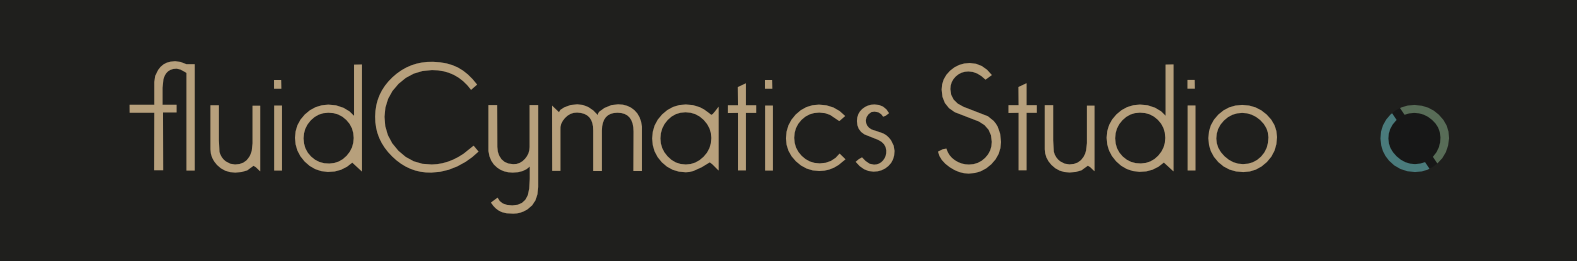
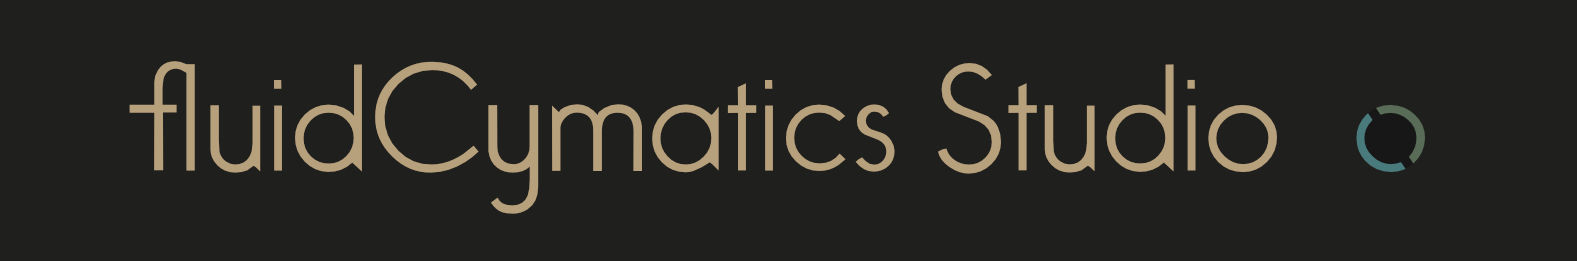
update assets

Changed region(s): [[0.8389, 0.3985, 0.9321, 0.6743]]

diff --git a/styles.css b/styles.css
@@ -6,21 +6,20 @@
 
 :root {
   --color-cahier: #B7A07C;      /* B7A07C - Cahier - Headers & Assets */
-  --color-accent-lo: #5F6B4E;   /* 5F6B4E - Moss - Accent Lo */
+  --color-accent-lo: #586C57;   /* 586C57 - Moss - Accent Lo */
   --color-accent-hi: #4A7B7C;   /* 4A7B7C - Teal - Accent Hi */
-  --color-canvas-bg: #171717;  /* 171717 - Black - Canvas Background */
-  --color-callout-bg: #1F1F1D; /* 1F1F1D - Brown - Callouts & HZ Lines */
+  --color-canvas-bg: #080808;  /* 080808 - Black - Canvas Background */
+  --color-callout-bg: #171717; /* 171717 - Brown - Callouts & HZ Lines */
   --color-text-white: #ACACAC;  /* ACACAC - White - Text */
   --color-link: #D9D9D9;        /* D9D9D9 - Link */
   --color-visited: #5A5A5A;     /* 5A5A5A - vLink */
-  --color-obsidian-div: #080808;/* 080808 - Obsidian Parent Div */
 
   --color-bright-white: #FFFFFF;
   --font-mono: "Inter", -apple-system, BlinkMacSystemFont, "Segoe UI", Roboto, sans-serif;
 
   --bg-charcoal: #121212;
   --cahier-tan: #B7A07C;
-  --moss-green: #5F6B4E;
+  --moss-green: #586C57;
   --cymatic-teal: #4A7B7C;
 
   --node-idle: var(--moss-green);
@@ -71,7 +70,7 @@ body {
   display: flex;
   align-items: center;
   padding: 16px 32px;
-  background: var(--color-callout-bg);
+  background: var(--color-canvas-bg);
   border-bottom: 1px solid #B7A07C;
   pointer-events: auto;
 }

diff --git a/index.html b/index.html
@@ -15,6 +15,15 @@
       }
     }
   </script>
+
+<!-- High-DPI PNG Icon -->
+<link rel="icon" type="image/png" sizes="96x96" href="/assets/ominode/ominode-96.png">
+
+<!-- Legacy ICO Fallback -->
+<link rel="icon" type="image/x-icon" href="/assets/ominode/ominode.ico">
+
+<!-- Apple Touch Icon -->
+<link rel="apple-touch-icon" sizes="180x180" href="/assets/ominode/apple-touch-ominode.png">
 </head>
 <body>
 
@@ -27,7 +36,7 @@
   <!-- Persistent Header Banner -->
   <header id="ui-header">
     <div class="brand-wrapper">
-      <img src="fluidCymatics-Studio.png" alt="fluidCymatics Logo" class="brand-logo-img">
+      <img src="assets/fluidCymatics-Studio276-black.png" alt="fluidCymatics Logo" class="brand-logo-img">
       <div class="brand-text-block">
         <div class="brand-line-2">Spatial &amp; Structural Mechanics</div>
         <div class="brand-line-3">Patterning raw information through field geometry, material logic, and fluid systems.</div>
